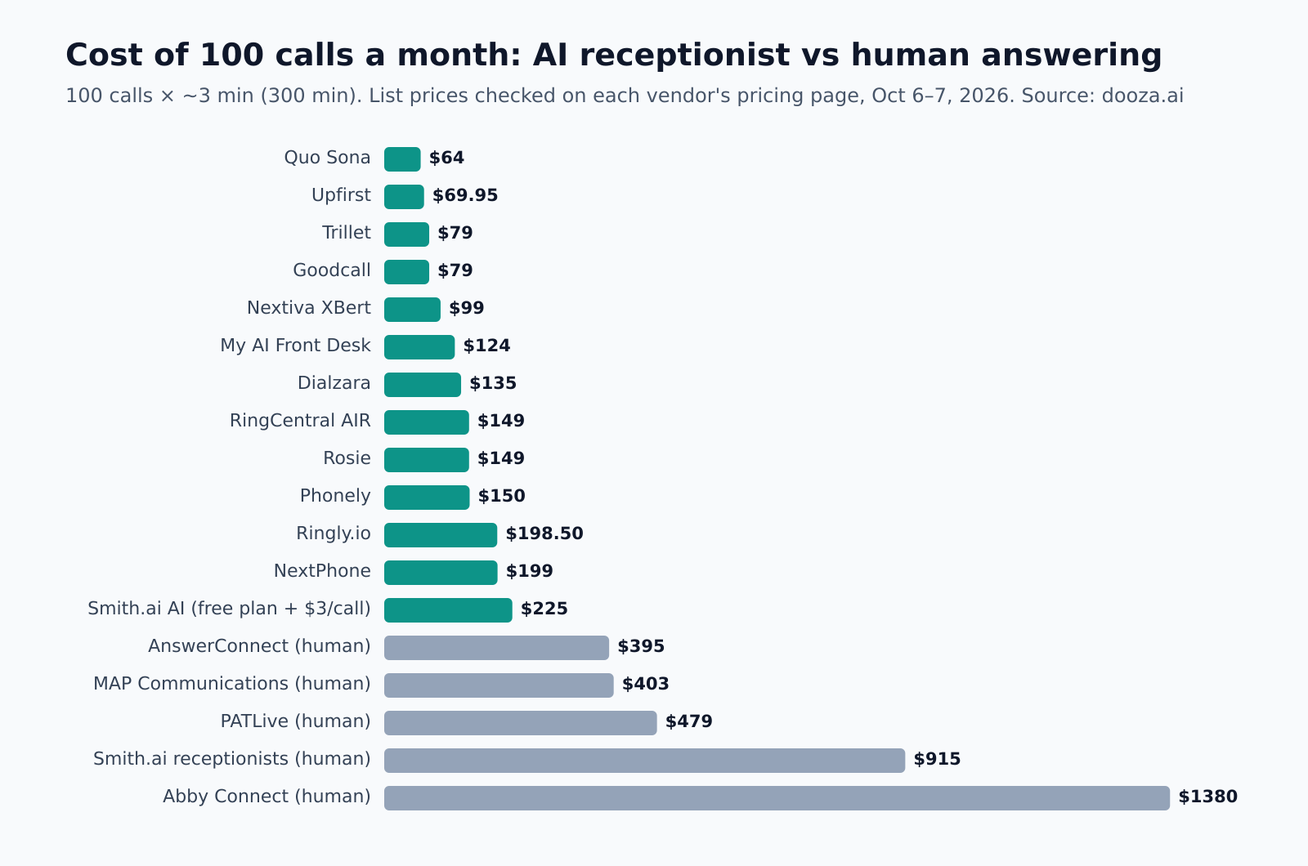
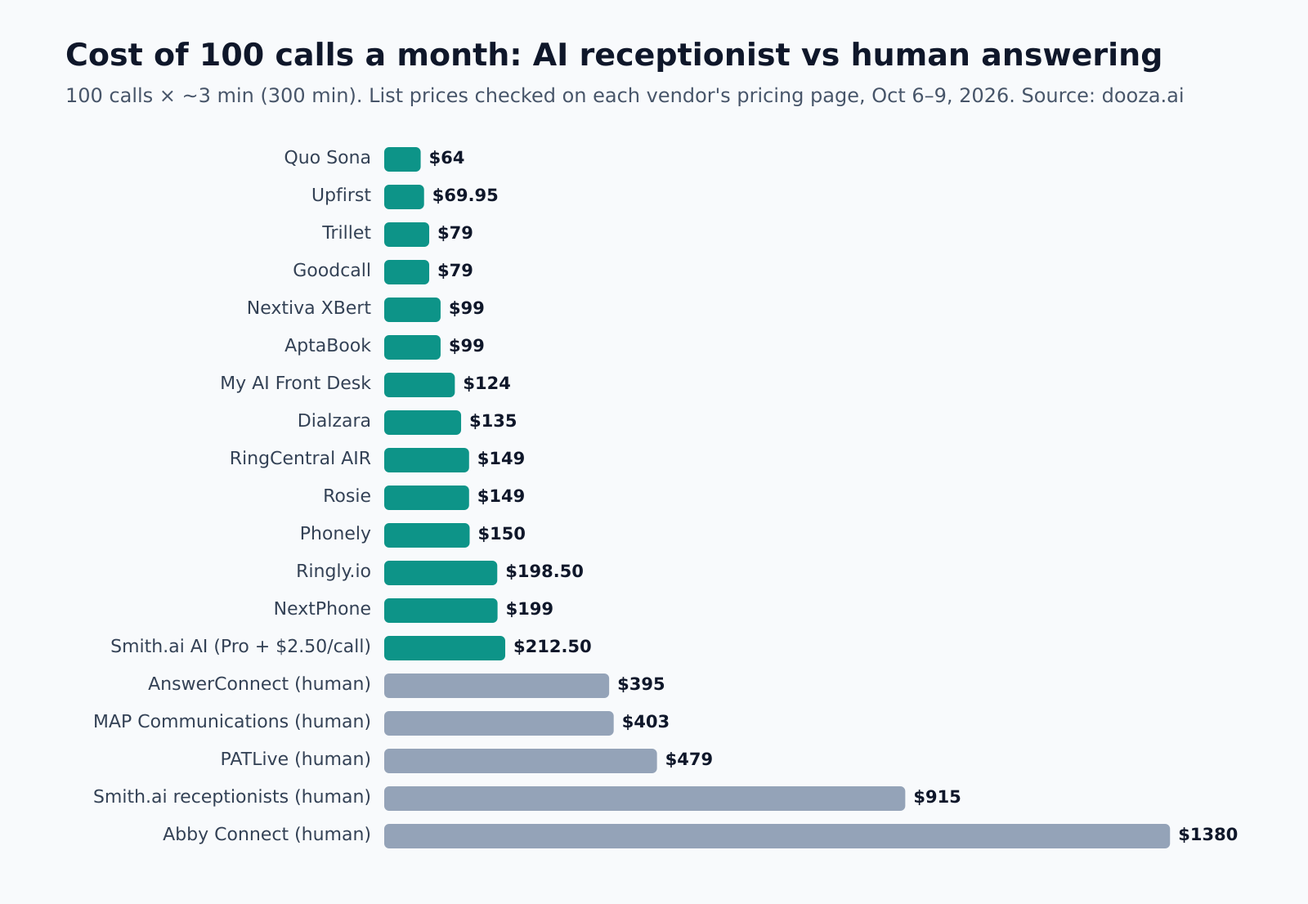
pricing benchmark: Smith.ai Pro overage now published ($2.50) -> 100 calls $212.50; chart adds AptaBook

Changed region(s): [[0.0625, 0.1557, 0.9688, 0.934], [0.0625, 0.0311, 0.9062, 0.1245]]

diff --git a/lib/blogData.js b/lib/blogData.js
@@ -12847,7 +12847,7 @@ A: It depends on your biggest pain point. If you’re drowning in emails, start 
             },
             {
                 question: `How much does an AI answering service cost?`,
-                answer: `In October 2026, entry plans from 16 AI receptionist vendors ranged from \$0 (free tiers with 10 to 100 calls or minutes) to \$199 a month, and most sat between \$49 and \$99 (checked on each vendor’s pricing page, October 6, 2026). For 100 calls a month, the AI services we priced cost \$64 to \$225, against \$395 to \$1,380 for human answering services. Full table: dooza.ai/blog/ai-receptionist-pricing.`
+                answer: `In October 2026, entry plans from 16 AI receptionist vendors ranged from \$0 (free tiers with 10 to 100 calls or minutes) to \$199 a month, and most sat between \$49 and \$99 (checked on each vendor’s pricing page, October 6, 2026). For 100 calls a month, the AI services we priced cost \$64 to \$213, against \$395 to \$1,380 for human answering services. Full table: dooza.ai/blog/ai-receptionist-pricing.`
             },
             {
                 question: `Can an AI answering service replace my human receptionist?`,
@@ -12862,7 +12862,7 @@ A: It depends on your biggest pain point. If you’re drowning in emails, start 
                 answer: `Modern AI voices sound natural, but tell callers they are speaking with an AI assistant, for example in the greeting. It is honest, and in some places it is a legal requirement.`
             }
         ],
-        content: `<h2 id="what-is-ai-answering-service">What Is an AI Answering Service for Small Business?</h2><p>An <strong>AI answering service for small business</strong> is a virtual receptionist powered by artificial intelligence that handles inbound phone calls just like a human—but without the salary, breaks, or sleep. It can answer questions, take messages, book appointments, qualify leads, and route urgent calls to your team. And it does all of this 24/7, 365 days a year.</p><p>If you’ve ever missed a call from a potential customer because you were in a meeting or after hours, you know the pain. Most small businesses can’t afford a round-the-clock receptionist. That’s where AI steps in.</p><h2 id="why-small-businesses-need-it">Why Small Businesses Need an AI Answering Service</h2><p>Let’s face it: small business owners wear a dozen hats. You’re the CEO, the salesperson, the marketer, and yes, sometimes the receptionist. Every time the phone rings, you have to decide: drop everything to answer, or let it go to voicemail and risk losing a sale.</p><p>Here’s what an AI answering service solves:</p><ul><li><strong>Missed calls = lost revenue.</strong> Many callers who reach voicemail hang up and call the next business. An AI answers instantly.</li><li><strong>After-hours inquiries.</strong> Your customers don’t stop needing you at 5 PM. AI handles late-night calls for appointments, emergencies, or simple questions.</li><li><strong>Scalability without hiring.</strong> When your call volume spikes—say, after a marketing campaign—your AI scales instantly. No need to hire and train temp staff.</li><li><strong>Consistency.</strong> Every caller gets the same professional, friendly experience. No grumpy Mondays or rushed lunch breaks.</li></ul><h2 id="key-features-to-look-for">Key Features to Look For</h2><p>Not all AI answering services are created equal. When evaluating any AI answering service, look for these capabilities:</p><ol><li><strong>Natural Language Understanding (NLU)</strong> — The AI must understand context, slang, and complex requests. It shouldn’t sound like a robot reading a script.</li><li><strong>CRM Integration</strong> — Your AI should log calls, update contact records, and push leads into your pipeline automatically.</li><li><strong>Appointment Scheduling</strong> — It should check your calendar, find open slots, and book appointments without double-booking.</li><li><strong>Call Routing</strong> — Urgent calls (e.g., “My water heater just burst!”) should be forwarded to your on-call team immediately.</li><li><strong>Customizable Scripts</strong> — You control what the AI says, how it answers FAQs, and how it handles objections.</li><li><strong>Multi-language Support</strong> — If your customers speak Spanish, Mandarin, or French, your AI should too.</li></ol><p>Ask every vendor to show each of these on a live test call before you sign.</p><h2 id="pricing-and-roi">What It Costs (October 2026)</h2><p>We checked the pricing pages of 16 AI receptionist vendors on October 6, 2026. Entry plans ranged from \$0 (free tiers with 10 to 100 calls or minutes) to \$199 a month, and most sat between \$49 and \$99. Overage runs \$0.20 to \$0.50 a minute or \$0.45 to \$3.00 a call.</p><p>For 100 calls of about 3 minutes each, the AI services we could price exactly cost about \$64 to \$225 a month. Five human answering services cost \$395 to \$1,380 for the same volume. Human services still win for complex, emotional or high-stakes calls. The full table is in our <a href="/blog/ai-receptionist-pricing">AI receptionist pricing benchmark</a>.</p><p>To work out your own return, multiply the calls you miss each month by the share that would have become customers and by your average job value, then compare that with the monthly price.</p><h2 id="how-to-set-up-in-30-minutes">How Setup Works</h2><p>Whichever service you choose, setup follows the same steps:</p><ol><li><strong>Write down your business info</strong>: hours, address, services, prices you are happy to quote, and your most common questions.</li><li><strong>Set call rules</strong>: what counts as urgent, who gets transferred, and what happens after hours.</li><li><strong>Connect your calendar</strong> so the AI can book appointments.</li><li><strong>Forward your business number</strong> (all calls, after-hours only, or overflow).</li><li><strong>Test it</strong> with a few calls from a different phone before customers hear it.</li></ol><p>With Dooza you don’t do this alone: an engineer scopes it with you on a free 30-minute call and builds it, and the <a href="/ai-receptionist">AI receptionist pilot</a> is refundable (100% refund within 14 days).</p><h2 id="for-contractors-and-trades">AI Answering Service for Contractors and Trades</h2><p>Trades businesses lose more calls than almost anyone. The owner is on a roof, under a sink, or driving between jobs, and the caller who reaches voicemail usually rings the next company on the list. Three calls matter most:</p><ul><li><strong>The after-hours emergency.</strong> AC quits at 9pm or a pipe bursts on a Sunday. The AI answers, takes the address and the problem, and books the emergency slot.</li><li><strong>The estimate request.</strong> A homeowner wants a quote for a new system, a repipe, a panel upgrade, or a roof. The AI captures the scope, address and timing, and books the site visit.</li><li><strong>The maintenance call.</strong> Tune-ups and seasonal service while the whole crew is out. The AI books the visit and texts the confirmation.</li></ul><p>If you run an HVAC, plumbing, electrical, roofing, or general contracting business, Dooza sets this up for you as a <a href="/ai-receptionist">refundable AI receptionist pilot for the trades</a>. It answers in your company name, is live on your line within 48 hours of the setup call, and the pilot comes with a 100% refund within 14 days.</p><h2 id="common-mistakes-to-avoid">Common Mistakes to Avoid</h2><p>Even with a great AI answering service, things can go wrong. Here are the pitfalls to sidestep:</p><ul><li><strong>Overpromising to customers.</strong> Don’t claim your AI is human. Be transparent. Most customers appreciate the honesty.</li><li><strong>Neglecting to train the AI.</strong> Your AI is only as good as the data you give it. Spend 30 minutes feeding it your most common scenarios.</li><li><strong>Never reading the call summaries.</strong> Review them every week and refine your answers and rules.</li><li><strong>Not testing the handoff.</strong> Make sure urgent calls actually reach you. Test with a friend calling from a different number.</li><li><strong>Forgetting about compliance.</strong> If you’re in healthcare (HIPAA) or finance, ensure your AI provider meets those standards.</li></ul><h2 id="conclusion">Conclusion</h2><p>An <strong>AI answering service for small business</strong> isn’t a futuristic luxury—it’s a practical, affordable tool that’s available right now. It costs far less than a person on the phone all day, captures leads you’d otherwise lose, and gives you back hours of your day. Whether you run a law firm, a dental practice, a plumbing company, or an e-commerce store, your customers deserve to reach a live voice—even at 2 AM.</p><p>Want one answering your line? <a href="/ai-receptionist">Start a refundable AI receptionist pilot with Dooza</a>: 100% refund within 14 days.</p><p>For more insights on AI for small business, explore our <a href="https://dooza.ai/blog">blog</a> and <a href="https://dooza.ai/about">learn about the Dooza team</a>.</p><p>Your next customer is calling. Make sure someone answers.</p>`
+        content: `<h2 id="what-is-ai-answering-service">What Is an AI Answering Service for Small Business?</h2><p>An <strong>AI answering service for small business</strong> is a virtual receptionist powered by artificial intelligence that handles inbound phone calls just like a human—but without the salary, breaks, or sleep. It can answer questions, take messages, book appointments, qualify leads, and route urgent calls to your team. And it does all of this 24/7, 365 days a year.</p><p>If you’ve ever missed a call from a potential customer because you were in a meeting or after hours, you know the pain. Most small businesses can’t afford a round-the-clock receptionist. That’s where AI steps in.</p><h2 id="why-small-businesses-need-it">Why Small Businesses Need an AI Answering Service</h2><p>Let’s face it: small business owners wear a dozen hats. You’re the CEO, the salesperson, the marketer, and yes, sometimes the receptionist. Every time the phone rings, you have to decide: drop everything to answer, or let it go to voicemail and risk losing a sale.</p><p>Here’s what an AI answering service solves:</p><ul><li><strong>Missed calls = lost revenue.</strong> Many callers who reach voicemail hang up and call the next business. An AI answers instantly.</li><li><strong>After-hours inquiries.</strong> Your customers don’t stop needing you at 5 PM. AI handles late-night calls for appointments, emergencies, or simple questions.</li><li><strong>Scalability without hiring.</strong> When your call volume spikes—say, after a marketing campaign—your AI scales instantly. No need to hire and train temp staff.</li><li><strong>Consistency.</strong> Every caller gets the same professional, friendly experience. No grumpy Mondays or rushed lunch breaks.</li></ul><h2 id="key-features-to-look-for">Key Features to Look For</h2><p>Not all AI answering services are created equal. When evaluating any AI answering service, look for these capabilities:</p><ol><li><strong>Natural Language Understanding (NLU)</strong> — The AI must understand context, slang, and complex requests. It shouldn’t sound like a robot reading a script.</li><li><strong>CRM Integration</strong> — Your AI should log calls, update contact records, and push leads into your pipeline automatically.</li><li><strong>Appointment Scheduling</strong> — It should check your calendar, find open slots, and book appointments without double-booking.</li><li><strong>Call Routing</strong> — Urgent calls (e.g., “My water heater just burst!”) should be forwarded to your on-call team immediately.</li><li><strong>Customizable Scripts</strong> — You control what the AI says, how it answers FAQs, and how it handles objections.</li><li><strong>Multi-language Support</strong> — If your customers speak Spanish, Mandarin, or French, your AI should too.</li></ol><p>Ask every vendor to show each of these on a live test call before you sign.</p><h2 id="pricing-and-roi">What It Costs (October 2026)</h2><p>We checked the pricing pages of 16 AI receptionist vendors on October 6, 2026. Entry plans ranged from \$0 (free tiers with 10 to 100 calls or minutes) to \$199 a month, and most sat between \$49 and \$99. Overage runs \$0.20 to \$0.50 a minute or \$0.45 to \$3.00 a call.</p><p>For 100 calls of about 3 minutes each, the AI services we could price exactly cost about \$64 to \$213 a month. Five human answering services cost \$395 to \$1,380 for the same volume. Human services still win for complex, emotional or high-stakes calls. The full table is in our <a href="/blog/ai-receptionist-pricing">AI receptionist pricing benchmark</a>.</p><p>To work out your own return, multiply the calls you miss each month by the share that would have become customers and by your average job value, then compare that with the monthly price.</p><h2 id="how-to-set-up-in-30-minutes">How Setup Works</h2><p>Whichever service you choose, setup follows the same steps:</p><ol><li><strong>Write down your business info</strong>: hours, address, services, prices you are happy to quote, and your most common questions.</li><li><strong>Set call rules</strong>: what counts as urgent, who gets transferred, and what happens after hours.</li><li><strong>Connect your calendar</strong> so the AI can book appointments.</li><li><strong>Forward your business number</strong> (all calls, after-hours only, or overflow).</li><li><strong>Test it</strong> with a few calls from a different phone before customers hear it.</li></ol><p>With Dooza you don’t do this alone: an engineer scopes it with you on a free 30-minute call and builds it, and the <a href="/ai-receptionist">AI receptionist pilot</a> is refundable (100% refund within 14 days).</p><h2 id="for-contractors-and-trades">AI Answering Service for Contractors and Trades</h2><p>Trades businesses lose more calls than almost anyone. The owner is on a roof, under a sink, or driving between jobs, and the caller who reaches voicemail usually rings the next company on the list. Three calls matter most:</p><ul><li><strong>The after-hours emergency.</strong> AC quits at 9pm or a pipe bursts on a Sunday. The AI answers, takes the address and the problem, and books the emergency slot.</li><li><strong>The estimate request.</strong> A homeowner wants a quote for a new system, a repipe, a panel upgrade, or a roof. The AI captures the scope, address and timing, and books the site visit.</li><li><strong>The maintenance call.</strong> Tune-ups and seasonal service while the whole crew is out. The AI books the visit and texts the confirmation.</li></ul><p>If you run an HVAC, plumbing, electrical, roofing, or general contracting business, Dooza sets this up for you as a <a href="/ai-receptionist">refundable AI receptionist pilot for the trades</a>. It answers in your company name, is live on your line within 48 hours of the setup call, and the pilot comes with a 100% refund within 14 days.</p><h2 id="common-mistakes-to-avoid">Common Mistakes to Avoid</h2><p>Even with a great AI answering service, things can go wrong. Here are the pitfalls to sidestep:</p><ul><li><strong>Overpromising to customers.</strong> Don’t claim your AI is human. Be transparent. Most customers appreciate the honesty.</li><li><strong>Neglecting to train the AI.</strong> Your AI is only as good as the data you give it. Spend 30 minutes feeding it your most common scenarios.</li><li><strong>Never reading the call summaries.</strong> Review them every week and refine your answers and rules.</li><li><strong>Not testing the handoff.</strong> Make sure urgent calls actually reach you. Test with a friend calling from a different number.</li><li><strong>Forgetting about compliance.</strong> If you’re in healthcare (HIPAA) or finance, ensure your AI provider meets those standards.</li></ul><h2 id="conclusion">Conclusion</h2><p>An <strong>AI answering service for small business</strong> isn’t a futuristic luxury—it’s a practical, affordable tool that’s available right now. It costs far less than a person on the phone all day, captures leads you’d otherwise lose, and gives you back hours of your day. Whether you run a law firm, a dental practice, a plumbing company, or an e-commerce store, your customers deserve to reach a live voice—even at 2 AM.</p><p>Want one answering your line? <a href="/ai-receptionist">Start a refundable AI receptionist pilot with Dooza</a>: 100% refund within 14 days.</p><p>For more insights on AI for small business, explore our <a href="https://dooza.ai/blog">blog</a> and <a href="https://dooza.ai/about">learn about the Dooza team</a>.</p><p>Your next customer is calling. Make sure someone answers.</p>`
     },
   {
     id: 185,

diff --git a/lib/octoberPosts/ai-receptionist-pricing.js b/lib/octoberPosts/ai-receptionist-pricing.js
@@ -35,8 +35,8 @@ const U = {
 
 const faq = [
     { question: 'How much does an AI receptionist cost per month?', answer: 'In October 2026, entry plans from 17 AI receptionist vendors ranged from $0 (free tiers with 10 to 100 calls or minutes) to $199 a month, and most sat between $49 and $99. Overage runs $0.20 to $0.50 a minute or $0.45 to $3.00 a call. Prices were checked on each vendor’s pricing page on October 6, 2026.' },
-    { question: 'How much does an AI receptionist cost for 100 calls a month?', answer: 'For 100 calls of about 3 minutes each (300 minutes), list prices ranged from about $64 (Quo Sona plus a Quo seat) to $225 (Smith.ai at its free plan’s per-call rate) across 14 AI services we could price exactly. Human answering services cost $395 to $1,380 for the same volume (AnswerConnect, MAP Communications, PATLive, Smith.ai Virtual Receptionists, Abby Connect).' },
-    { question: 'Is an AI receptionist cheaper than a human answering service?', answer: 'Yes. For 100 calls a month, the AI services we priced cost $64 to $225 against $395 to $1,380 for the five human answering services we priced, roughly 2 to 20 times less. On Smith.ai’s own price sheet, human receptionists cost $8.50 to $11.50 per extra call and its AI receptionist $2.00 to $3.00 per call (checked October 6, 2026). Human services still win for complex, emotional or high-stakes calls.' },
+    { question: 'How much does an AI receptionist cost for 100 calls a month?', answer: 'For 100 calls of about 3 minutes each (300 minutes), list prices ranged from about $64 (Quo Sona plus a Quo seat) to $212.50 (Smith.ai Pro plus its $2.50 per-call overage) across 14 AI services we could price exactly. Human answering services cost $395 to $1,380 for the same volume (AnswerConnect, MAP Communications, PATLive, Smith.ai Virtual Receptionists, Abby Connect).' },
+    { question: 'Is an AI receptionist cheaper than a human answering service?', answer: 'Yes. For 100 calls a month, the AI services we priced cost $64 to $213 against $395 to $1,380 for the five human answering services we priced, roughly 2 to 20 times less. On Smith.ai’s own price sheet, human receptionists cost $8.50 to $11.50 per extra call and its AI receptionist $2.00 to $3.00 per call (checked October 6, 2026). Human services still win for complex, emotional or high-stakes calls.' },
     { question: 'How are AI receptionists billed?', answer: 'Five ways: per minute in bundles (most common: Dialzara, Rosie, Trillet, RingCentral AIR, My AI Front Desk, Phonely), per call or conversation (Upfirst, Smith.ai, Quo, Ringly, Nextiva XBert, AptaBook), flat unlimited (NextPhone), per unique caller (Goodcall), or as a per-seat add-on to a phone system (Allô, Quo, RingCentral RingEX).' },
     { question: 'What hidden costs should I check before buying an AI receptionist?', answer: 'Check what happens when you go over: some vendors charge per extra minute, Rosie moves you to the next plan automatically, and Goodcall meters unique callers instead of minutes. Also check whether the product needs a paid phone seat (Allô, Quo, the RingCentral add-on), billing increments (RingCentral rounds to 30 seconds), and refund terms (Rosie says payments are nonrefundable).' },
     { question: 'Does Dooza offer an AI receptionist?', answer: 'Yes. Dooza builds and runs a done-for-you AI receptionist on your existing number, tuned to your services, prices and calendar, so you don’t set it up yourself. Pricing is on dooza.ai/pricing, and every Dooza product starts with a refundable pilot: 100% refund within 14 days.' },
@@ -47,7 +47,7 @@ export default {
     title: 'AI Receptionist Pricing (2026): What 22 Services Actually Cost, Checked on Their Own Pricing Pages',
     seoTitle: 'AI Receptionist Pricing 2026: 22 Services Compared',
     seoDescription: 'AI receptionist pricing checked on 22 vendors’ own pages (Oct 6–8, 2026): entry plans $0–$199/mo, most $49–$99. What 100 calls a month really costs, billing models and hidden fees.',
-    excerpt: 'We checked the pricing pages of 22 AI receptionist and answering services on October 6–8, 2026. Entry plans run $0 to $199 a month; 100 calls a month costs about $64 to $225 with AI, versus $395 to $1,380 with a human answering service.',
+    excerpt: 'We checked the pricing pages of 22 AI receptionist and answering services on October 6–8, 2026. Entry plans run $0 to $199 a month; 100 calls a month costs about $64 to $213 with AI, versus $395 to $1,380 with a human answering service.',
     author: 'Dooza Team',
     date: '2026-10-06',
     modifiedDate: '2026-10-08',
@@ -56,7 +56,7 @@ export default {
     category: 'Comparison',
     tags: ['AI Receptionist Pricing', 'AI Receptionist Cost', 'AI Answering Service Pricing', 'Virtual Receptionist Cost', 'AI Receptionist'],
     image: '/blog/ai-receptionist-pricing.png',
-    imageAlt: 'Bar chart: monthly cost of 100 calls (about 300 minutes) on 13 AI receptionist services, from about $64 to $225, compared with $395 to $1,380 for five human answering services. Prices checked October 6–7, 2026.',
+    imageAlt: 'Bar chart: monthly cost of 100 calls (about 300 minutes) on 14 AI receptionist services, from about $64 to $213, compared with $395 to $1,380 for five human answering services. Prices checked October 6–7, 2026.',
     slug: 'ai-receptionist-pricing',
     video: [{
         name: 'How Much Does an AI Receptionist or Answering Service Cost?',
@@ -90,7 +90,7 @@ export default {
     content: `<p><em>Updated October 6, 2026. Every price below was ${CHECKED} on the vendor’s own pricing page, linked in each row. Dooza sells a done-for-you AI receptionist, so we are not neutral; we list our method and every source so you can check us. Prices change often: confirm on the vendor’s page before you buy.</em></p>
 
 <h2 id="short-answer">How much does an AI receptionist cost?</h2>
-<p><strong>A self-serve AI receptionist costs $0 to $199 a month for an entry plan, and most small-business plans cost $49 to $99 a month (17 AI services, prices checked October 6, 2026).</strong> Extra usage runs $0.20 to $0.50 a minute or $0.45 to $3.00 a call. For a typical small business taking 100 calls a month, the AI services we could price exactly cost about $64 to $225 a month. A human answering service costs $395 to $1,380 for the same calls.</p>
+<p><strong>A self-serve AI receptionist costs $0 to $199 a month for an entry plan, and most small-business plans cost $49 to $99 a month (17 AI services, prices checked October 6, 2026).</strong> Extra usage runs $0.20 to $0.50 a minute or $0.45 to $3.00 a call. For a typical small business taking 100 calls a month, the AI services we could price exactly cost about $64 to $213 a month. A human answering service costs $395 to $1,380 for the same calls.</p>
 <p>The sticker price matters less than the billing unit. Per-minute, per-call, per-caller and flat plans can swing the bill by 3x at the same call volume. The table and the 100-call comparison below show where.</p>
 
 <p>The same numbers in a 4-minute video (October 2026):</p>
@@ -112,7 +112,7 @@ ${yt('iIFr5J11Xiw', 'How Much Does an AI Receptionist or Answering Service Cost?
 <tr><td>${src(U.nextiva, 'Nextiva XBert')}</td><td>$99</td><td>100 interactions (calls, texts or chats)</td><td>$0.99 an interaction</td><td>Interaction</td><td>30-day money-back</td></tr>
 <tr><td>${src(U.frontdesk, 'My AI Front Desk')}</td><td>$99 ($79 yearly)</td><td>200 minutes, plus chat and SMS</td><td>$0.25 a minute</td><td>Minute</td><td>7-day free trial</td></tr>
 <tr><td>${src(U.ringly, 'Ringly.io')}</td><td>$99 minimum</td><td>50 conversations</td><td>$1.99 a conversation</td><td>Conversation</td><td>30-day money-back</td></tr>
-<tr><td>${src(U.smithAi, 'Smith.ai AI Receptionist')}</td><td>$0 Free (25 calls) or $150 Pro</td><td>Pro: 75 calls</td><td>Free plan: $3.00 a call</td><td>Call</td><td>Free plan</td></tr>
+<tr><td>${src(U.smithAi, 'Smith.ai AI Receptionist')}</td><td>$0 Free (25 calls) or $150 Pro</td><td>Pro: 75 calls</td><td>Free plan: $3.00 a call; Pro: $2.50 a call</td><td>Call</td><td>Free plan</td></tr>
 <tr><td>${src(U.quo, 'Quo (OpenPhone) Sona')}</td><td>$0 (10 calls) to $199 (600 calls), plus a $15–$47 seat</td><td>10 to 600 calls</td><td>$1.00 down to $0.45 a call</td><td>Call + seat</td><td>7-day trial</td></tr>
 <tr><td>${src(U.nextphone, 'NextPhone')}</td><td>$199 ($166 yearly)</td><td>Unlimited calls</td><td>None</td><td>Flat</td><td>7-day free trial</td></tr>
 <tr><td>${src(U.retell, 'Retell AI')} (build it yourself)</td><td>Usage only, $10 free credits</td><td>n/a</td><td>$0.07–$0.31 a minute</td><td>Minute</td><td>$10 credits</td></tr>
@@ -139,7 +139,7 @@ ${yt('iIFr5J11Xiw', 'How Much Does an AI Receptionist or Answering Service Cost?
 <tr><td>Phonely</td><td>$150</td><td>Overage not published, so the $150 plan (650 min)</td></tr>
 <tr><td>Ringly.io</td><td>$198.50</td><td>$99 (50 conversations) + 50 × $1.99</td></tr>
 <tr><td>NextPhone</td><td>$199</td><td>Flat, unlimited calls</td></tr>
-<tr><td>Smith.ai AI Receptionist</td><td>$225</td><td>Free plan (25 calls) + 75 × $3.00. Pro covers only 75 calls and its overage isn’t published</td></tr>
+<tr><td>Smith.ai AI Receptionist</td><td>$212.50</td><td>Pro $150 (75 calls) + 25 × $2.50 (the Free plan would cost $225: 25 calls + 75 × $3.00)</td></tr>
 <tr><td colspan="3"><em>Human answering services, same 100 calls</em></td></tr>
 <tr><td>AnswerConnect</td><td>$395</td><td>Growth plan, 300 minutes (${src(U.answerconnect, 'AnswerConnect plans')}, checked October 7, 2026)</td></tr>
 <tr><td>MAP Communications</td><td>$403</td><td>Enterprise $339 (250 min) + 50 × $1.28 (${src(U.map, 'MAP pricing')}, checked October 7, 2026)</td></tr>
@@ -148,7 +148,7 @@ ${yt('iIFr5J11Xiw', 'How Much Does an AI Receptionist or Answering Service Cost?
 <tr><td>Abby Connect (human answering)</td><td>$1,380</td><td>300 human minutes is over Professional’s 200, so Growth (500 minutes). Abby counts AI minutes at half, so 300 AI minutes would fit Professional at $599.</td></tr>
 </tbody>
 </table>
-<p>At 100 calls a month the cheapest and the most expensive AI service differ by about 3.5x ($64 against $225). Try your own numbers in our <a href="/ai-receptionist-cost-calculator">AI receptionist cost calculator</a>. Allô is left out because its add-on has no usage cap and needs a phone seat.</p>
+<p>At 100 calls a month the cheapest and the most expensive AI service differ by about 3.3x ($64 against $212.50). Try your own numbers in our <a href="/ai-receptionist-cost-calculator">AI receptionist cost calculator</a>. Allô is left out because its add-on has no usage cap and needs a phone seat.</p>
 <p>Your numbers will differ if calls are longer, if the same customers call repeatedly (cheaper on Goodcall), or if you need texts and chat too (Nextiva and My AI Front Desk count those).</p>
 
 <p>Nine of these services compared plan by plan, including which plans book appointments and transfer calls, in a 4-minute video:</p>
@@ -173,7 +173,7 @@ ${yt('rwzAhVuBQOY', '9 AI Receptionists & Answering Services Compared (2026)')}
 </ul>
 
 <h2 id="human-vs-ai">AI receptionist vs human answering service</h2>
-<p>Smith.ai sells both, which makes for a clean comparison on one price sheet: its human receptionists charge $8.50 to $11.50 for each call over the plan, while its AI receptionist works out at $2.00 to $3.00 a call (${src(U.smithHuman, 'Smith.ai human plans')}, ${src(U.smithAi, 'Smith.ai AI plans')}, ${CHECKED}). In our 100-call scenario, AI services cost roughly 2 to 20 times less than the five human services we priced ($64–$225 against $395–$1,380). Per-minute answering services such as AnswerConnect, MAP and PATLive are the cheapest human option.</p>
+<p>Smith.ai sells both, which makes for a clean comparison on one price sheet: its human receptionists charge $8.50 to $11.50 for each call over the plan, while its AI receptionist works out at $2.00 to $3.00 a call (${src(U.smithHuman, 'Smith.ai human plans')}, ${src(U.smithAi, 'Smith.ai AI plans')}, ${CHECKED}). In our 100-call scenario, AI services cost roughly 2 to 20 times less than the five human services we priced ($64–$213 against $395–$1,380). Per-minute answering services such as AnswerConnect, MAP and PATLive are the cheapest human option.</p>
 <p>Humans are still the better pick for upset customers, complex intake (legal, medical), and calls where one mistake costs more than a year of the service. Hybrids exist: ${src(U.abby, 'Abby Connect')} mixes human and AI minutes on one plan, and ${src(U.ruby, 'Ruby')} adds AI features to its human plans from $250 a month.</p>
 
 <h2 id="which-fits">Which AI receptionist fits which business</h2>

diff --git a/lib/octoberPosts/free-ai-receptionist.js b/lib/octoberPosts/free-ai-receptionist.js
@@ -28,7 +28,7 @@ const faq = [
     { question: 'How many calls does a free AI receptionist cover?', answer: 'About one call a day. Smith.ai’s free plan covers 25 calls a month, Phonely’s covers 100 minutes (roughly 50 short calls), and Quo’s included tier covers 10 calls. Past that, Smith.ai charges $3.00 a call and Quo $1.00 a call; Phonely doesn’t publish an overage rate, so you move to its $50 plan.' },
     { question: 'Which AI receptionists have a free trial?', answer: 'Upfirst and RingCentral AI Receptionist offer 14-day free trials. Rosie, My AI Front Desk, Dialzara, NextPhone, Allô and Quo offer 7-day trials, and Goodcall advertises a free trial without stating the length. Trillet (28 days), Nextiva XBert and Ringly.io (30 days) offer money-back guarantees instead. All checked October 6, 2026.' },
     { question: 'Can I build a free AI receptionist myself?', answer: 'Partly. Developer platforms such as Retell AI give $10 in free credits and charge $0.07 to $0.31 a minute after that, so the credits cover roughly 30 to 140 minutes of calls. You still need to build the agent, connect a phone number and maintain it.' },
-    { question: 'When is a free AI receptionist not enough?', answer: 'When you get more than about 25 to 50 calls a month, need appointment booking or CRM integration that free tiers don’t include, or can’t afford missed details on calls. At 100 calls a month, paid AI receptionists cost about $64 to $225 at list price.' },
+    { question: 'When is a free AI receptionist not enough?', answer: 'When you get more than about 25 to 50 calls a month, need appointment booking or CRM integration that free tiers don’t include, or can’t afford missed details on calls. At 100 calls a month, paid AI receptionists cost about $64 to $213 at list price.' },
     { question: 'Does Dooza have a free plan?', answer: 'No. Dooza builds a done-for-you AI receptionist on your existing number. Every Dooza product starts with a refundable pilot: you pay for the pilot, and if you ask within 14 days you get a 100% refund. The 30-minute call to scope it is free.' },
 ];
 
@@ -100,13 +100,13 @@ export default {
 <h2 id="catches">The catches with free AI receptionists</h2>
 <ul>
 <li><strong>Low limits.</strong> 10 to 25 calls a month runs out in the first busy week.</li>
-<li><strong>Expensive overage.</strong> Smith.ai’s $3.00 a call after the free 25 makes 100 calls cost $225 on the free plan, more than most paid plans.</li>
+<li><strong>Expensive overage.</strong> Smith.ai’s $3.00 a call after the free 25 makes 100 calls cost $225 on the free plan, more than most paid plans (Smith.ai’s own Pro plan would cost $212.50).</li>
 <li><strong>Hidden requirements.</strong> Quo’s free calls need a paid phone seat.</li>
 <li><strong>Setup is on you.</strong> Free and self-serve tools rely on you writing the greeting, FAQs, routing and booking rules.</li>
 </ul>
 
 <h2 id="when-to-pay">When free stops being enough</h2>
-<p>Once you pass about 25 to 50 calls a month, a paid plan is usually cheaper than free-plan overage. At 100 calls a month, AI receptionists cost about $64 to $225 at list price. Enter your own numbers in our <a href="/ai-receptionist-cost-calculator">AI receptionist cost calculator</a> to see which option is cheapest for you, or read the full <a href="/blog/ai-receptionist-pricing">AI receptionist pricing comparison</a> (22 services).</p>
+<p>Once you pass about 25 to 50 calls a month, a paid plan is usually cheaper than free-plan overage. At 100 calls a month, AI receptionists cost about $64 to $213 at list price. Enter your own numbers in our <a href="/ai-receptionist-cost-calculator">AI receptionist cost calculator</a> to see which option is cheapest for you, or read the full <a href="/blog/ai-receptionist-pricing">AI receptionist pricing comparison</a> (22 services).</p>
 
 <h2 id="dooza">Where Dooza fits</h2>
 <p>Dooza is an AI-native company that builds AI products and services for small businesses. Our <a href="/ai-receptionist">AI receptionist</a> is done for you: our engineers set it up on your existing number and tune it to your services, prices and calendar. It isn’t free: ${pilotLine} The 30-minute call to scope it is free. <a href="/book">Book a free 30-minute call to scope your pilot</a>, and if a free plan fits your call volume, we’ll tell you.</p>
